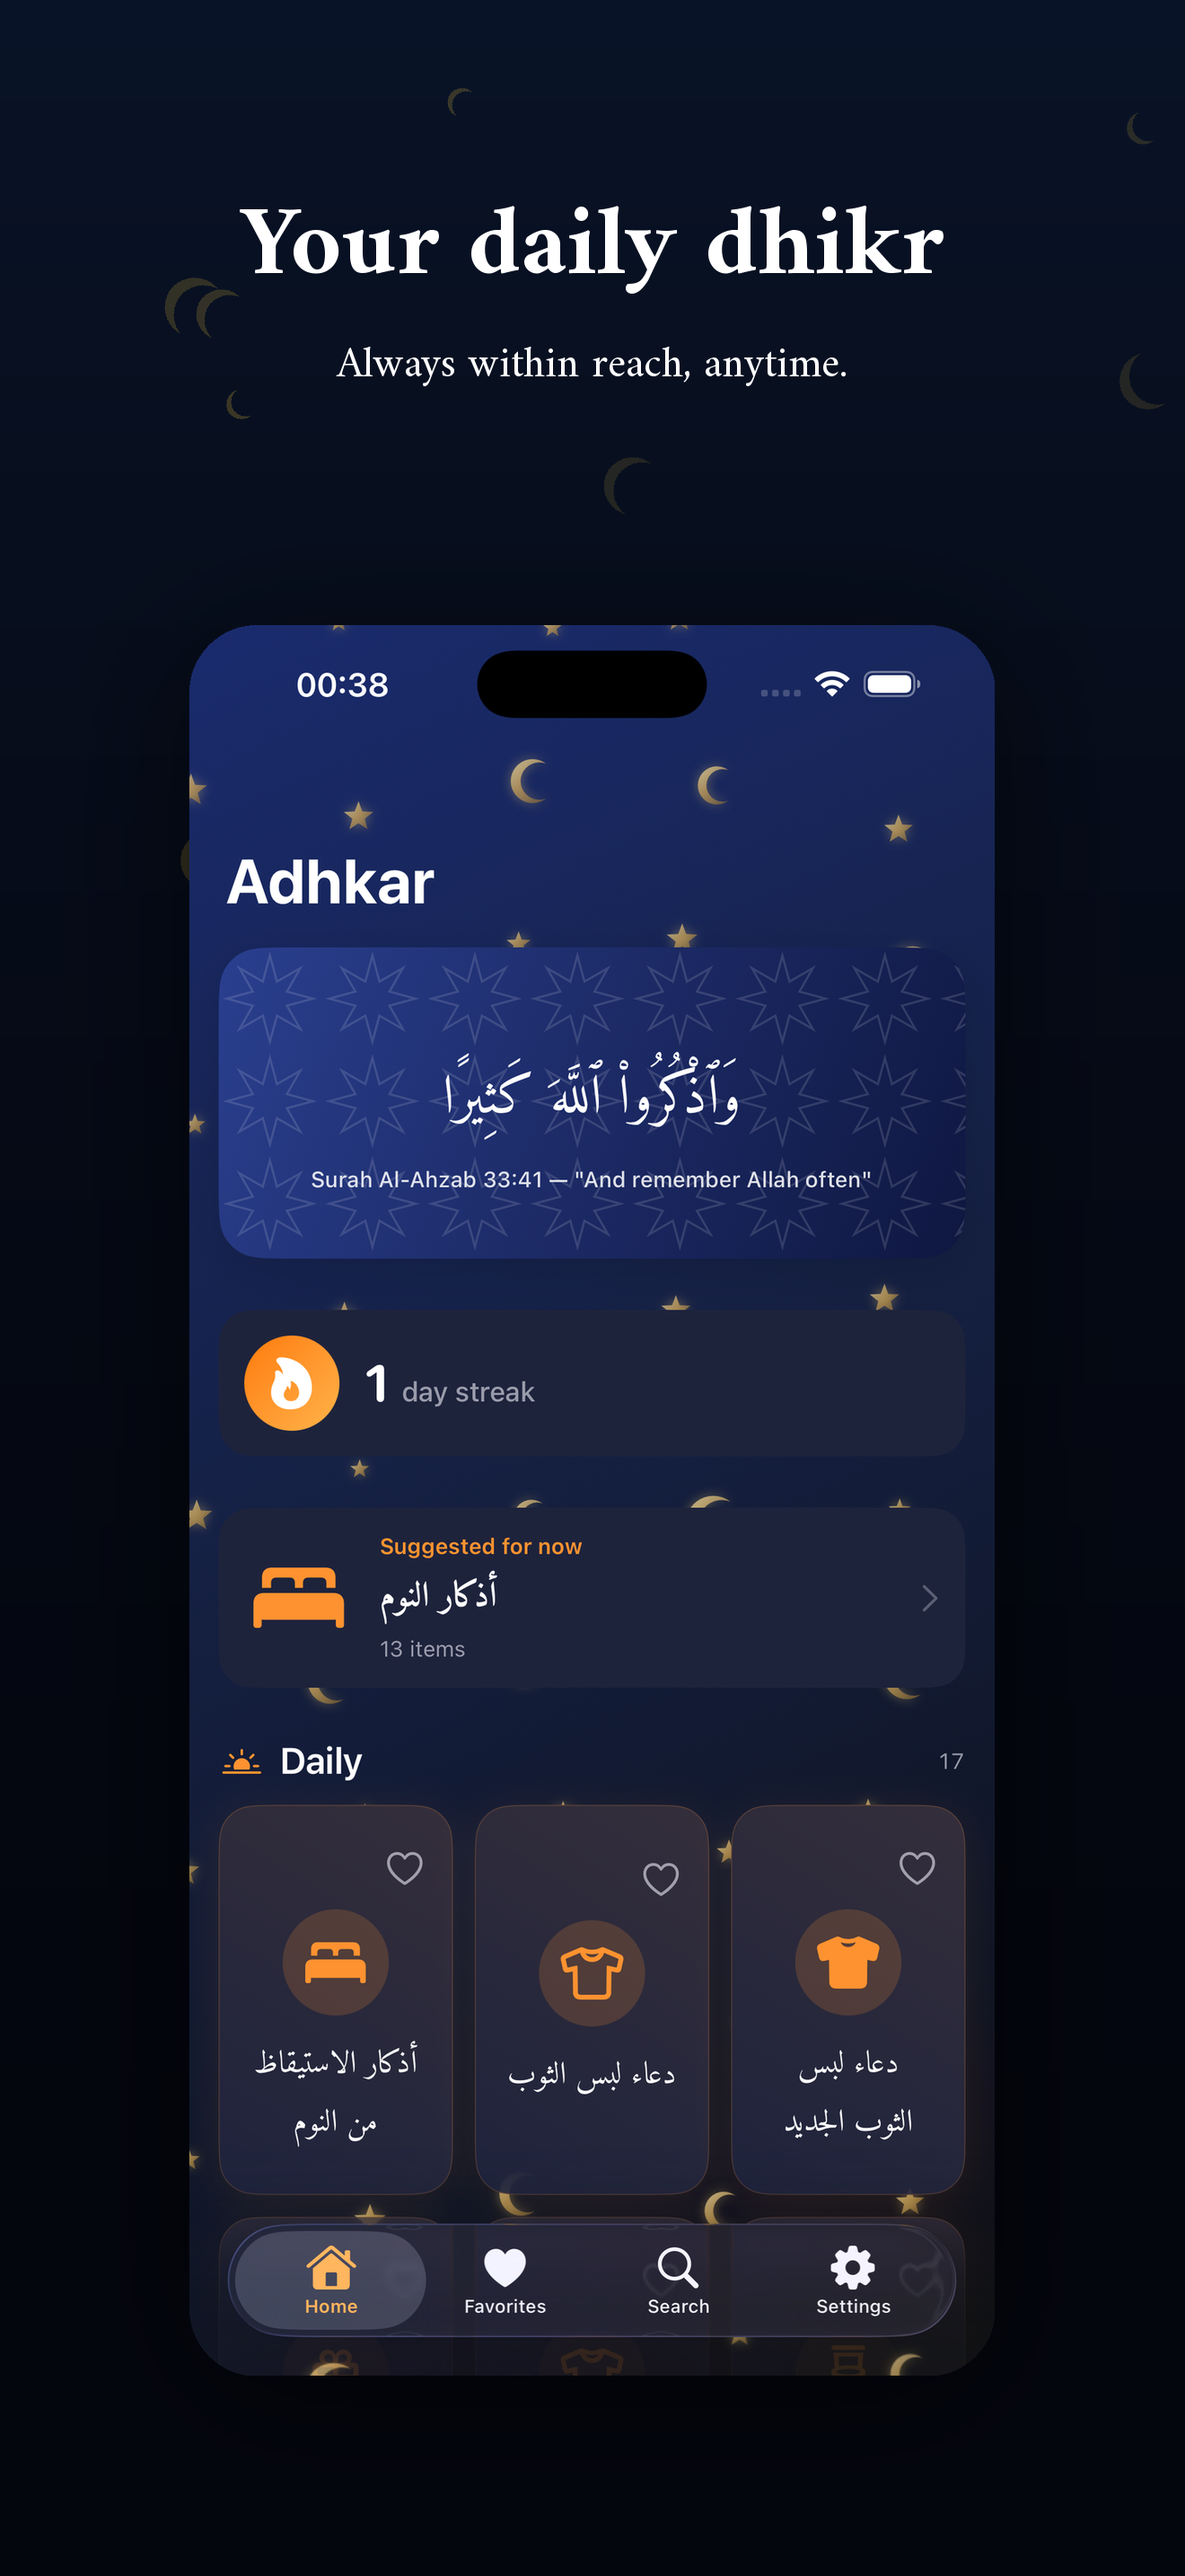
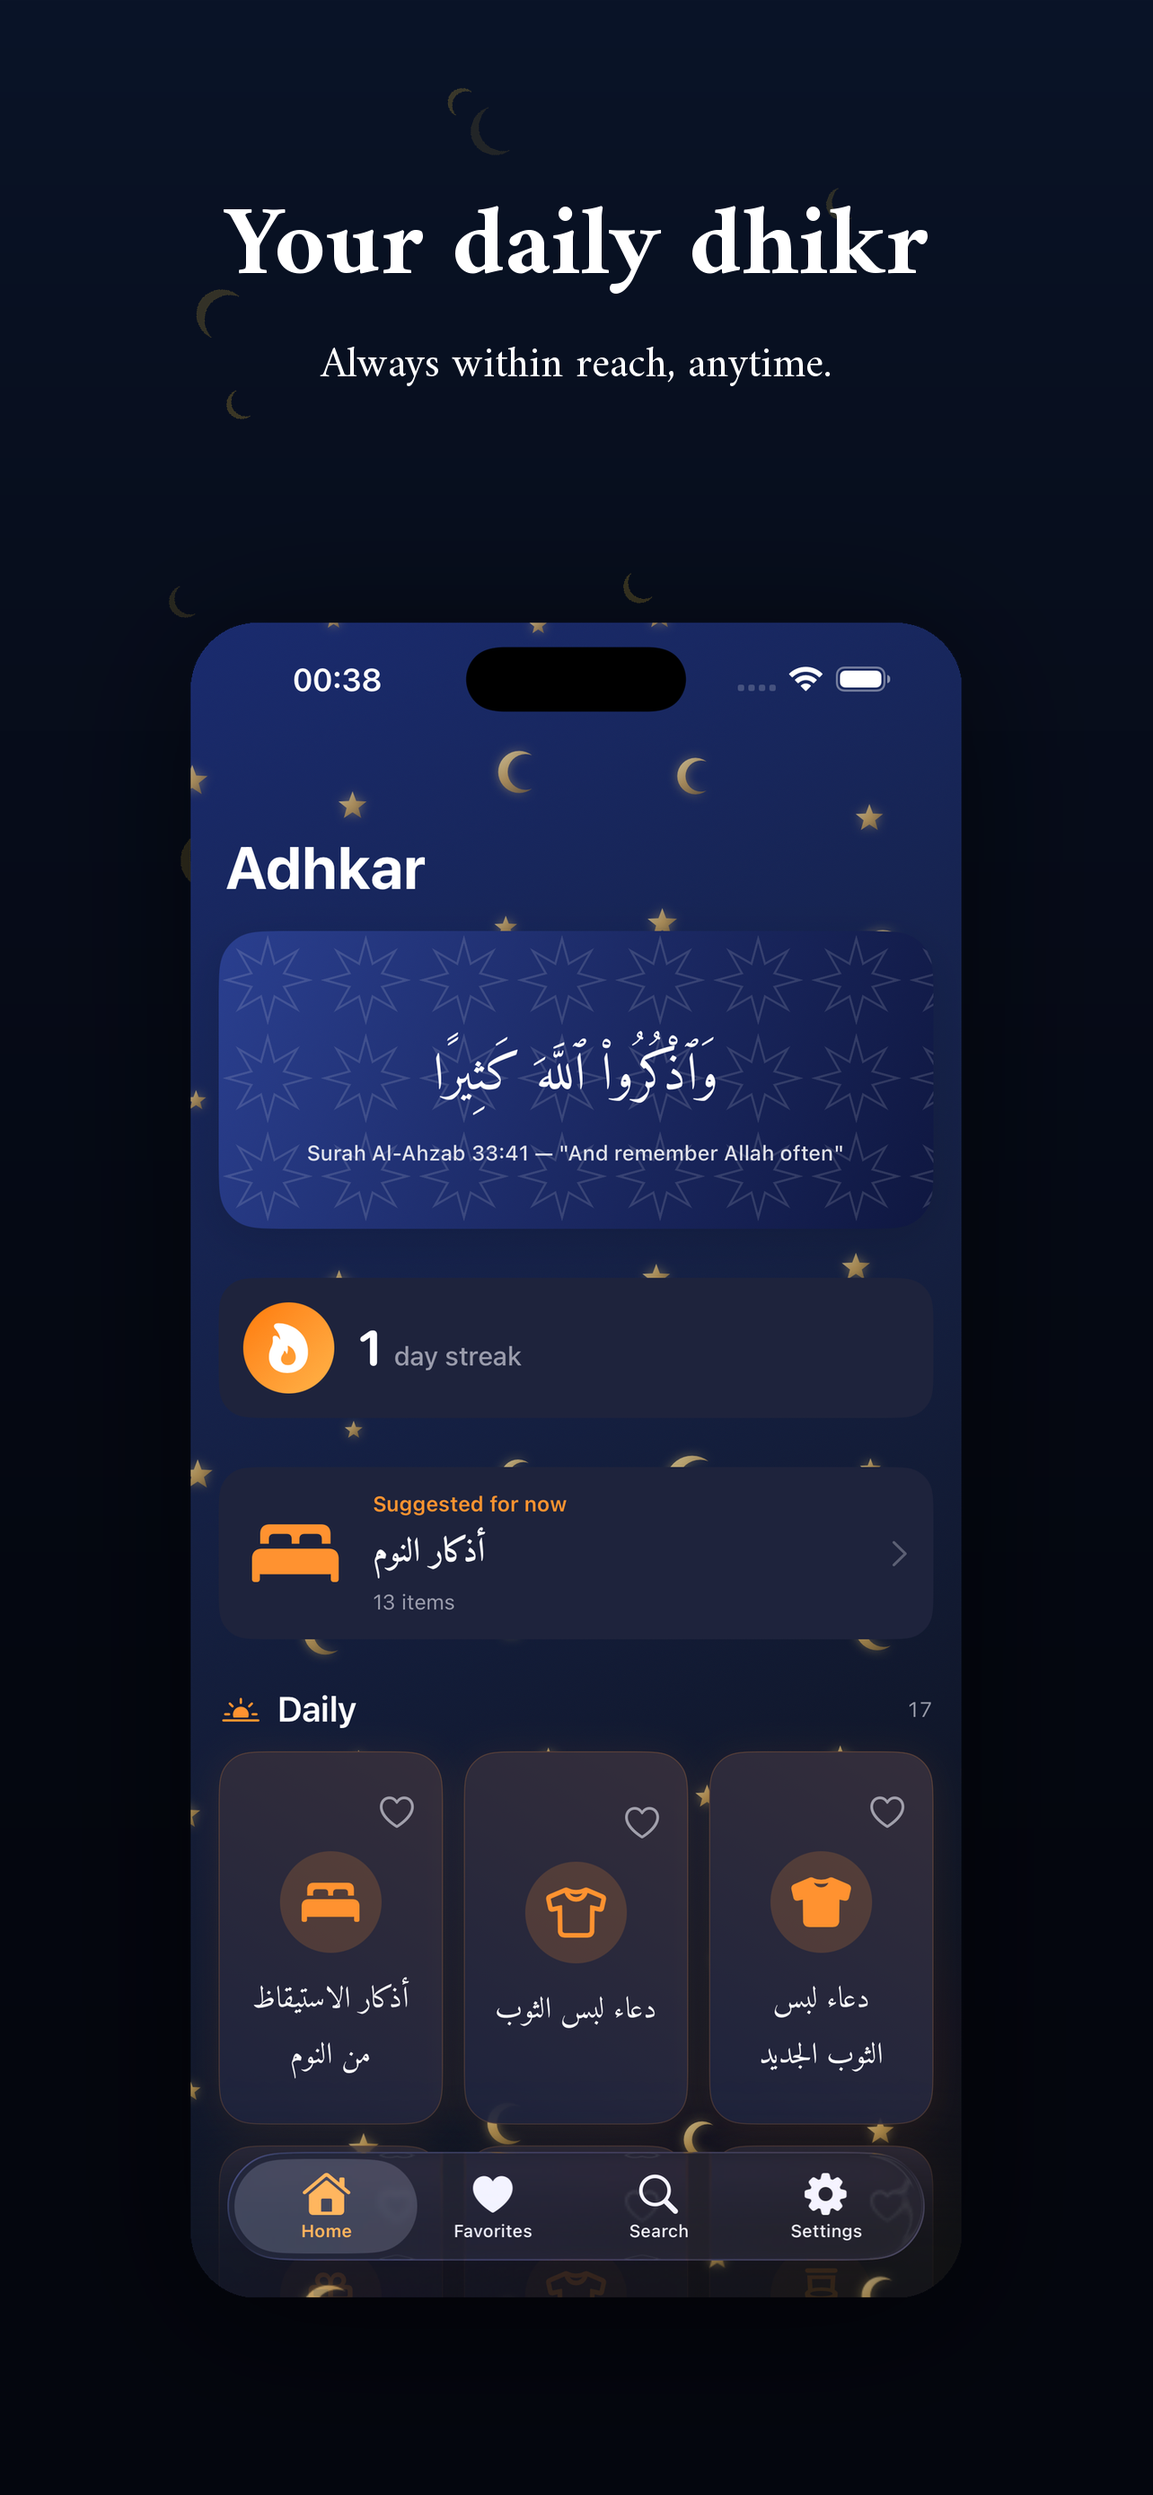
chore(submission): rebrand bundle IDs + App Group to tadev/munajat scheme
App Store registration:
- App: com.tadevv.Adhkar → com.tadevv.munajat (Debug+Release)
- Widget: com.tadevv.Adhkar.MunajatWidget → com.tadevv.munajat.widget
- App Group: group.com.tadevv.Munajat → group.com.tadev.munajat
  (single-v prefix because the double-v slug was reserved by the personal
  team during earlier dev work)

App Group string propagated through Adhkar.entitlements,
MunajatWidget.entitlements, StreakService.makeSharedDefaults() and
CurrentPeriodWidget.appGroupDefaults — they must all match or the widget
loses the streak read.

Also adds --size flag to scripts/make_screenshots.py and re-generates the
12 marketing PNGs at 1284×2778 (iPhone 6.7" Pro Max) since App Store
Connect's "iPhone 6.5\" Display" slot does not accept 6.9" (1320×2868).

diff --git a/MunajatWidget/CurrentPeriodWidget.swift b/MunajatWidget/CurrentPeriodWidget.swift
@@ -49,7 +49,7 @@ struct CurrentPeriodProvider: TimelineProvider {
     private static let periodBoundaries: [Int] = [4, 12, 19]
 
     /// Read by the host app's `StreakService`; the widget only reads.
-    private static let appGroupDefaults = UserDefaults(suiteName: "group.com.tadevv.Munajat")
+    private static let appGroupDefaults = UserDefaults(suiteName: "group.com.tadev.munajat")
     private static let currentStreakKey = "streak.current"
 
     func placeholder(in context: Context) -> CurrentPeriodEntry {

diff --git a/Adhkar/Services/StreakService.swift b/Adhkar/Services/StreakService.swift
@@ -49,7 +49,7 @@ final class StreakService {
     /// only if the suite somehow can't be opened (shouldn't happen in
     /// release builds since the entitlement is part of the bundle).
     nonisolated static func makeSharedDefaults() -> UserDefaults {
-        UserDefaults(suiteName: "group.com.tadevv.Munajat") ?? .standard
+        UserDefaults(suiteName: "group.com.tadev.munajat") ?? .standard
     }
 
     init(defaults: UserDefaults = StreakService.makeSharedDefaults()) {

diff --git a/scripts/make_screenshots.py b/scripts/make_screenshots.py
@@ -12,6 +12,7 @@ device-screenshot floating below with rounded corners and a drop shadow.
 
 from __future__ import annotations
 
+import argparse
 import json
 import math
 import random
@@ -34,8 +35,12 @@ else:
 # Layout
 # ---------------------------------------------------------------------------
 
-CANVAS_W = 1320          # iPhone 6.9" portrait width  (App Store requirement)
-CANVAS_H = 2868          # iPhone 6.9" portrait height
+SIZES = {
+    "6.5": (1242, 2688),     # iPhone XS Max / 11 Pro Max
+    "6.7": (1284, 2778),     # iPhone 12–15 Pro Max (also fits the 6.5" slot)
+    "6.9": (1320, 2868),     # iPhone 16/17 Pro Max  (new dedicated slot)
+}
+CANVAS_W, CANVAS_H = SIZES["6.7"]   # default: maximum compatibility
 
 PAD_H            = 96    # horizontal padding for text
 TITLE_TOP_PAD    = 180   # top margin before title
@@ -269,6 +274,14 @@ def composite_screen(raw_path: Path, copy: Copy, is_arabic: bool, out_path: Path
 # ---------------------------------------------------------------------------
 
 def main() -> None:
+    parser = argparse.ArgumentParser(description="Compose App Store screenshots.")
+    parser.add_argument("--size", choices=sorted(SIZES.keys()), default="6.7",
+                        help="Target iPhone display size (default: 6.7\").")
+    args = parser.parse_args()
+
+    global CANVAS_W, CANVAS_H
+    CANVAS_W, CANVAS_H = SIZES[args.size]
+
     config = json.loads(COPY_FILE.read_text())
     screens = config["screens"]
 
